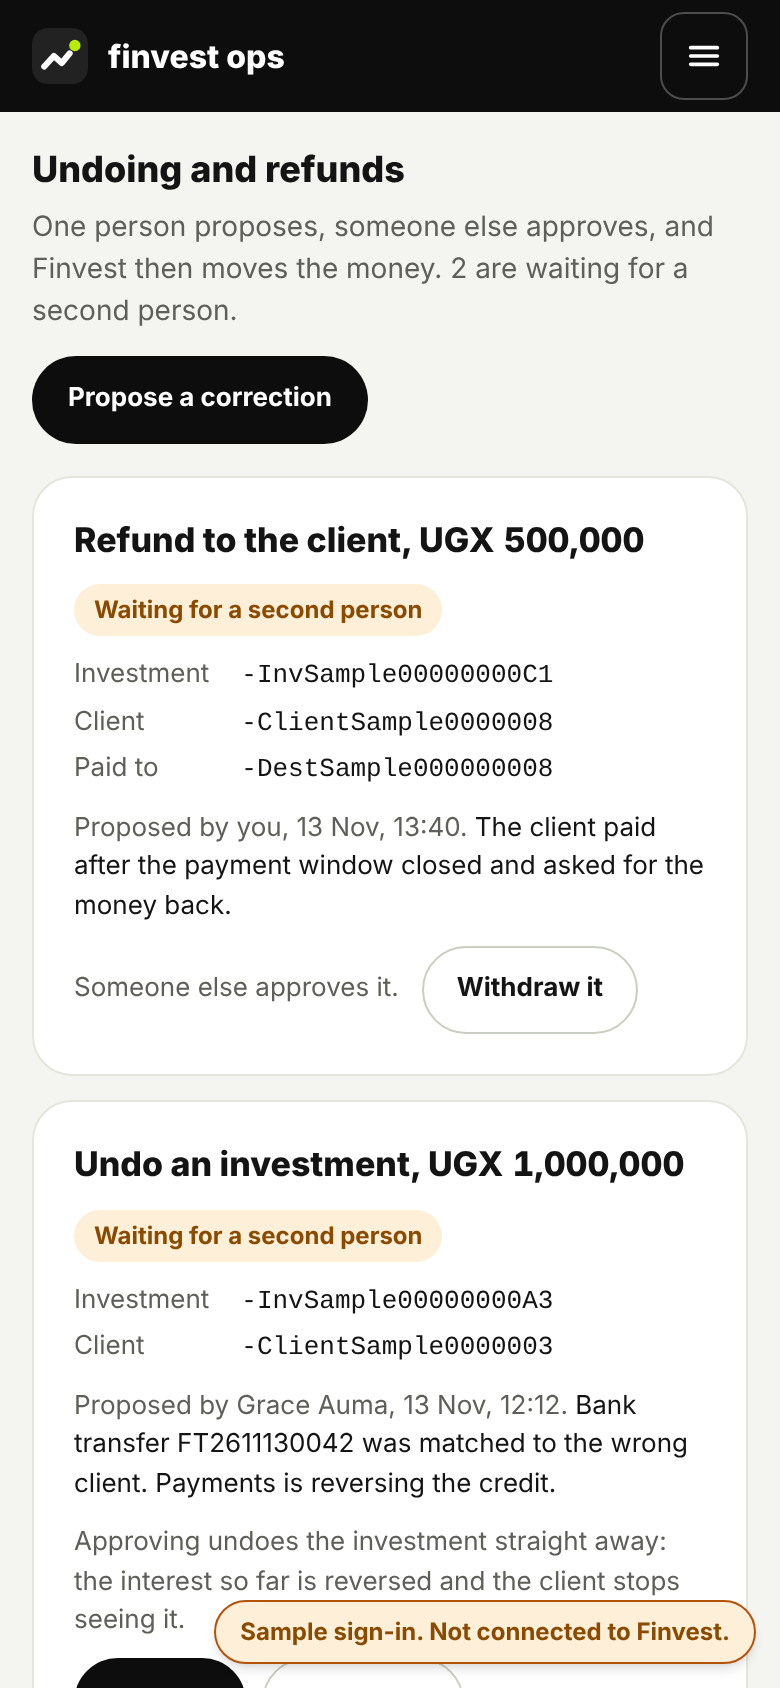
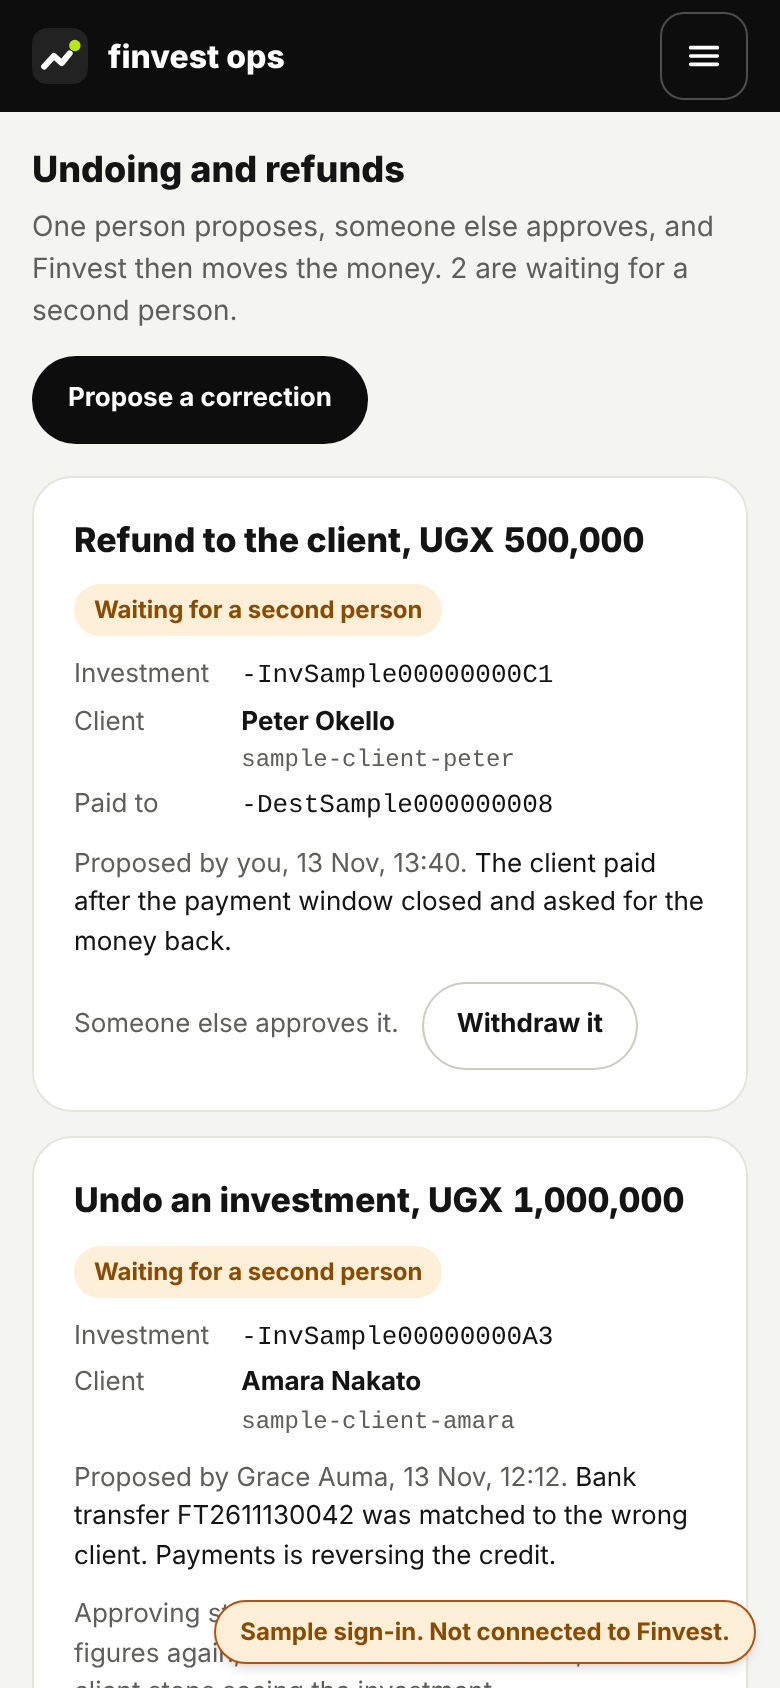
Name the client on each correction, and say approving starts it
The worker moves the money after approval and can still find nothing to
move, so the words no longer promise it happens straight away.

diff --git a/apps/console/src/screens/investments/corrections/Corrections.tsx b/apps/console/src/screens/investments/corrections/Corrections.tsx
@@ -63,7 +63,9 @@ export function CorrectionsSection({ api, directory, me, canChange, newKey = () 
   const [busy, setBusy] = useState<string | null>(null);
   const [failed, setFailed] = useState<Failure | null>(null);
   const [names, setNames] = useState<Record<string, string | null>>({});
+  const [clients, setClients] = useState<Record<string, string | null>>({});
   const asked = useRef(new Set<string>());
+  const askedClients = useRef(new Set<string>());
   // One key per attempt: the same request sent again after a lost answer is not done twice.
   const pending = useRef(new Map<string, { request: string; key: string }>());
 
@@ -77,6 +79,14 @@ export function CorrectionsSection({ api, directory, me, canChange, newKey = () 
             void directory.staffName(staffId).then(
               (name) => setNames((known) => ({ ...known, [staffId]: name })),
               () => setNames((known) => ({ ...known, [staffId]: null })),
+            );
+          }
+          for (const clientId of items.map((item) => item.clientId)) {
+            if (askedClients.current.has(clientId)) continue;
+            askedClients.current.add(clientId);
+            void directory.client(clientId).then(
+              (card) => setClients((known) => ({ ...known, [clientId]: card?.name ?? null })),
+              () => setClients((known) => ({ ...known, [clientId]: null })),
             );
           }
           return { state: "ready", items };
@@ -210,6 +220,7 @@ export function CorrectionsSection({ api, directory, me, canChange, newKey = () 
                 mine={item.proposedBy === me}
                 canChange={canChange}
                 who={who}
+                clientName={clients[item.clientId] ?? null}
                 busy={busy === item.id}
                 locked={busy !== null}
                 error={failed?.on === item.id ? failed.message : null}
@@ -349,6 +360,8 @@ interface CorrectionCardProps {
   mine: boolean;
   canChange: boolean;
   who: (staffId: string) => string;
+  /** From the shared directory, once known. */
+  clientName: string | null;
   busy: boolean;
   /** Another command is running on the section. */
   locked: boolean;
@@ -358,7 +371,7 @@ interface CorrectionCardProps {
   onWithdraw: () => Promise<boolean>;
 }
 
-function CorrectionCard({ item, mine, canChange, who, busy, locked, error, onApprove, onSendBack, onWithdraw }: CorrectionCardProps) {
+function CorrectionCard({ item, mine, canChange, who, clientName, busy, locked, error, onApprove, onSendBack, onWithdraw }: CorrectionCardProps) {
   const [sendingBack, setSendingBack] = useState(false);
   const [note, setNote] = useState("");
   const [tried, setTried] = useState(false);
@@ -378,7 +391,10 @@ function CorrectionCard({ item, mine, canChange, who, busy, locked, error, onApp
         <dt className="text-muted">Investment</dt>
         <dd className="m-0 font-mono break-all">{item.investmentId}</dd>
         <dt className="text-muted">Client</dt>
-        <dd className="m-0 font-mono break-all">{item.clientId}</dd>
+        <dd className="m-0 break-all">
+          {clientName ? <span className="font-bold">{clientName}</span> : null}
+          <span className={cn("font-mono", clientName && "block text-xs text-muted")}>{item.clientId}</span>
+        </dd>
         {item.destinationId ? (
           <>
             <dt className="text-muted">Paid to</dt>
@@ -437,8 +453,8 @@ function CorrectionCard({ item, mine, canChange, who, busy, locked, error, onApp
         <div className="flex flex-col gap-2">
           <p className="m-0 text-sm text-muted">
             {item.kind === "unwind"
-              ? "Approving undoes the investment straight away: the interest so far is reversed and the client stops seeing it."
-              : "Approving pays the money to this payout account straight away. It cannot be called back."}
+              ? "Approving starts the undo: Finvest checks the figures again, reverses the interest so far, and the client stops seeing the investment."
+              : "Approving starts the payout to this account once Finvest has checked the amount again. A payout cannot be called back."}
           </p>
           <div className="flex gap-2">
             <Button disabled={locked} onClick={() => void onApprove()}>

diff --git a/apps/console/src/screens/investments/corrections/stub.ts b/apps/console/src/screens/investments/corrections/stub.ts
@@ -15,8 +15,8 @@ const OTHER = "sample-staff-grace";
 /** The sample investments the stub knows, by ID, with what each holds. */
 const INVESTMENTS: Record<string, { client: string; principal: Amount; running: boolean }> = {
   "-InvSample00000000A1": { client: "-ClientSample0000001", principal: ugx(5_000_000), running: true },
-  "-InvSample00000000A3": { client: "-ClientSample0000003", principal: ugx(1_000_000), running: true },
-  "-InvSample00000000C1": { client: "-ClientSample0000008", principal: ugx(500_000), running: false },
+  "-InvSample00000000A3": { client: "sample-client-amara", principal: ugx(1_000_000), running: true },
+  "-InvSample00000000C1": { client: "sample-client-peter", principal: ugx(500_000), running: false },
 };
 
 function samples(me: string): Correction[] {
@@ -35,7 +35,7 @@ function samples(me: string): Correction[] {
       id: "-CorrSample000000001",
       kind: "unwind",
       investmentId: "-InvSample00000000A3",
-      clientId: "-ClientSample0000003",
+      clientId: "sample-client-amara",
       amount: ugx(1_000_000),
       reason: "Bank transfer FT2611130042 was matched to the wrong client. Payments is reversing the credit.",
       status: "proposed",
@@ -47,7 +47,7 @@ function samples(me: string): Correction[] {
       id: "-CorrSample000000002",
       kind: "refund",
       investmentId: "-InvSample00000000C1",
-      clientId: "-ClientSample0000008",
+      clientId: "sample-client-peter",
       amount: ugx(500_000),
       destinationId: "-DestSample000000008",
       reason: "The client paid after the payment window closed and asked for the money back.",
@@ -60,7 +60,7 @@ function samples(me: string): Correction[] {
       id: "-CorrSample000000003",
       kind: "refund",
       investmentId: "-InvSample00000000C2",
-      clientId: "-ClientSample0000009",
+      clientId: "sample-client-david",
       amount: ugx(250_000),
       destinationId: "-DestSample000000009",
       reason: "Paid twice for the same investment by mistake.",
@@ -77,7 +77,7 @@ function samples(me: string): Correction[] {
       id: "-CorrSample000000004",
       kind: "refund",
       investmentId: "-InvSample00000000C3",
-      clientId: "-ClientSample0000010",
+      clientId: "sample-client-joan",
       amount: ugx(9_000_000),
       destinationId: "-DestSample000000010",
       reason: "Investment cancelled at the client's request before it started.",

diff --git a/apps/console/src/screens/investments/corrections/Corrections.test.tsx b/apps/console/src/screens/investments/corrections/Corrections.test.tsx
@@ -31,6 +31,7 @@ describe("investments: corrections", () => {
     expect(screen.getByText(/2 are waiting for a second person/)).toBeInTheDocument();
     expect(waiting).toHaveTextContent("Proposed by Grace Auma");
     expect(waiting).toHaveTextContent("matched to the wrong client");
+    await waitFor(() => expect(waiting).toHaveTextContent("Amara Nakato"));
     const failed = await card("Refund to the client, UGX 9,000,000");
     expect(failed).toHaveTextContent("Nothing moved");
     expect(failed).toHaveTextContent("over what one mobile money payout can carry");
@@ -42,7 +43,7 @@ describe("investments: corrections", () => {
   it("approves someone else's, and Finvest moves the money", async () => {
     const { user } = renderSection();
     const waiting = await card(UNWIND);
-    expect(waiting).toHaveTextContent("the client stops seeing it");
+    expect(waiting).toHaveTextContent("the client stops seeing the investment");
     await user.click(within(waiting).getByRole("button", { name: "Approve" }));
     await waitFor(async () => expect(await card(UNWIND)).toHaveTextContent("Done"));
     expect(await card(UNWIND)).toHaveTextContent("Approved by you");
